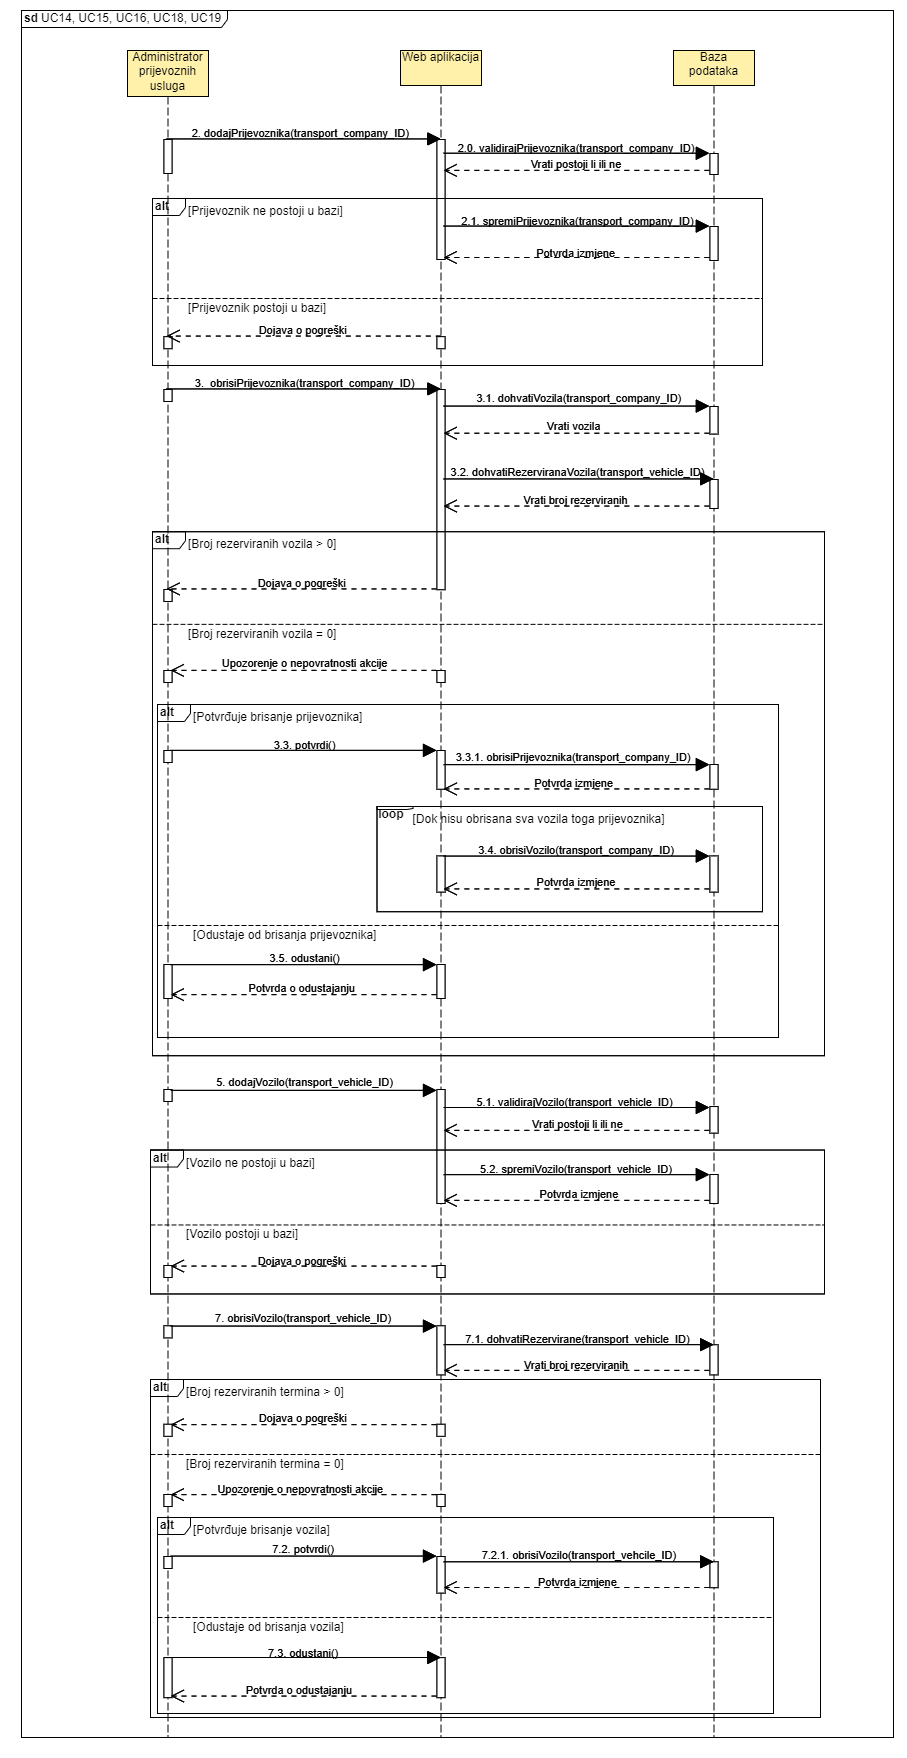
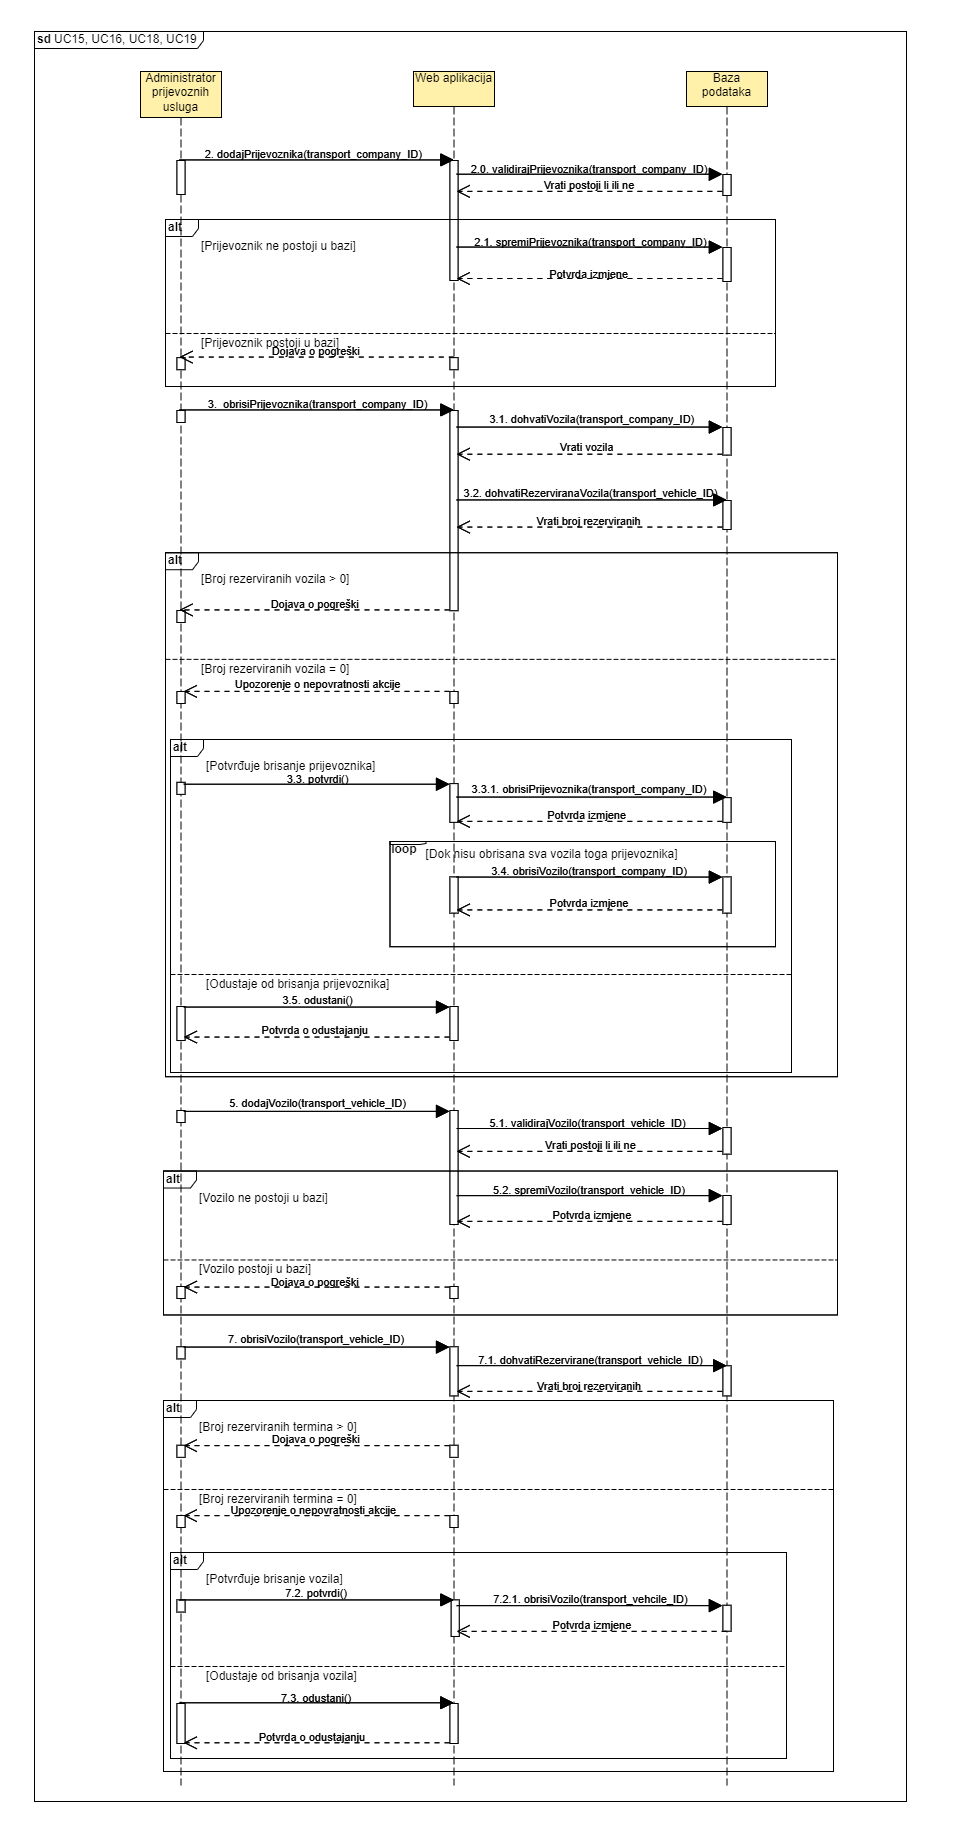
Added descriptions and fixed third sequence diagram

diff --git a/docs/Specifikacija_programske_potpore.tex b/docs/Specifikacija_programske_potpore.tex
@@ -755,6 +755,13 @@
 					\label{fig:sd1} %label mora biti drugaciji za svaku sliku
 				\end{figure}
 				
+				\eject
+				
+				\paragraph{Stvaranje, brisanje, dodjeljivanje uloga administratorima – obrazac uporabe UC4, UC5, UC6}\mbox{} \\
+				Smještajni administrator ima pristup listi svih administratora u bazi. On je ovlašten unositi nove administratore ukoliko oni već ne postoje u bazi, identificirajući ih prema e-mail adresi. U slučaju da administrator već postoji, sustav generira poruku o pogreški. Nadalje, smještajni administrator ima ovlasti dodjeljivanja uloga drugim administratorima. Također, ima mogućnost uklanjanja drugih administratora, pri čemu mu se šalje upozorenje o nepovratnosti akcije. U tom trenutku, smještajni administrator ima opciju potvrde ili odustajanja. Ukoliko potvrdi brisanje, izmjene se pohranjuju u bazu. 
+				
+				\paragraph{Stvaranje, brisanje i prikaz smještaja na karti – obrasci uporabe UC9, UC11, UC12 }\mbox{} \\
+				Smještajni administrator ima ovlasti i nad smještajem. Može dodavati nove smještaje, a ukoliko takav smještaj već ne postoji, podaci se pohranjuju u bazu. Nadalje, smještajni administrator ima mogućnost pregledavanja lokacije smještaja na karti putem koordinata (latitude i longitude). U postupku brisanja smještaja, sustav provjerava da li je određeni smještaj rezerviran. Ako nije, administratoru se šalje upozorenje o nepovratnosti akcije te ima opciju potvrde ili odustajanja. Ukoliko potvrdi, izmjene se pohranjuju u bazu. 
 				\begin{figure}[H]
 					\includegraphics[scale=0.5]{slike/sd2.PNG} %veličina u odnosu na širinu linije
 					\centering
@@ -762,13 +769,19 @@
 					\label{fig:sd2} %label mora biti drugaciji za svaku sliku
 				\end{figure}
 				
+				\eject
+				
+				\paragraph{Stvaranje i brisanje prijevoznika, stvaranje i brisanje vozila – obrasci uporabe UC15, UC16, UC18, UC19 }\mbox{} \\
+				Administrator prijevoznih usluga ima ovlasti dodavanja novih prijevoznika, pod uvjetom da već nisu prisutni u sustavu. Kada želi obrisati prijevoznika, prvo se provjerava jesu li vozila toga prijevoznika rezervirana u nekom terminu. Ukoliko jesu, šalje se poruka pogreške, a ako nisu administratoru se šalje upozorenje o nepovratnosti akcije te ima mogućnost potvrditi svoj izbor. Ako potvrdi, briše se prijevoznik i sva vozila toga prijevoznika. Dodavanjem novog vozila provjerava se postoji li već isto vozilo, ako ne postoji vozilo se dodaje u bazu. Brisanjem vozila provjerava se je li vozilo rezervirano u nekom terminu. Ukoliko jest, šalje se poruka o pogreški, a ako nije administratoru se šalje upozorenje o nepovratnosti te ima mogućnost potvrditi svoj izbor. Potvrđivanjem akcije briše se odabrano vozilo. 
+				
 				\begin{figure}[H]
-					\includegraphics[scale=0.48]{slike/sd3.PNG} %veličina u odnosu na širinu linije
+					\includegraphics[scale=0.45]{slike/sd3.PNG} %veličina u odnosu na širinu linije
 					\centering
-					\caption{Sekvencijski dijagram za UC14, UC15, UC16, UC18, UC19}
+					\caption{Sekvencijski dijagram za UC15, UC16, UC18, UC19}
 					\label{fig:sd3} %label mora biti drugaciji za svaku sliku
 				\end{figure}
 				
+	
 				
 				\eject
 	
